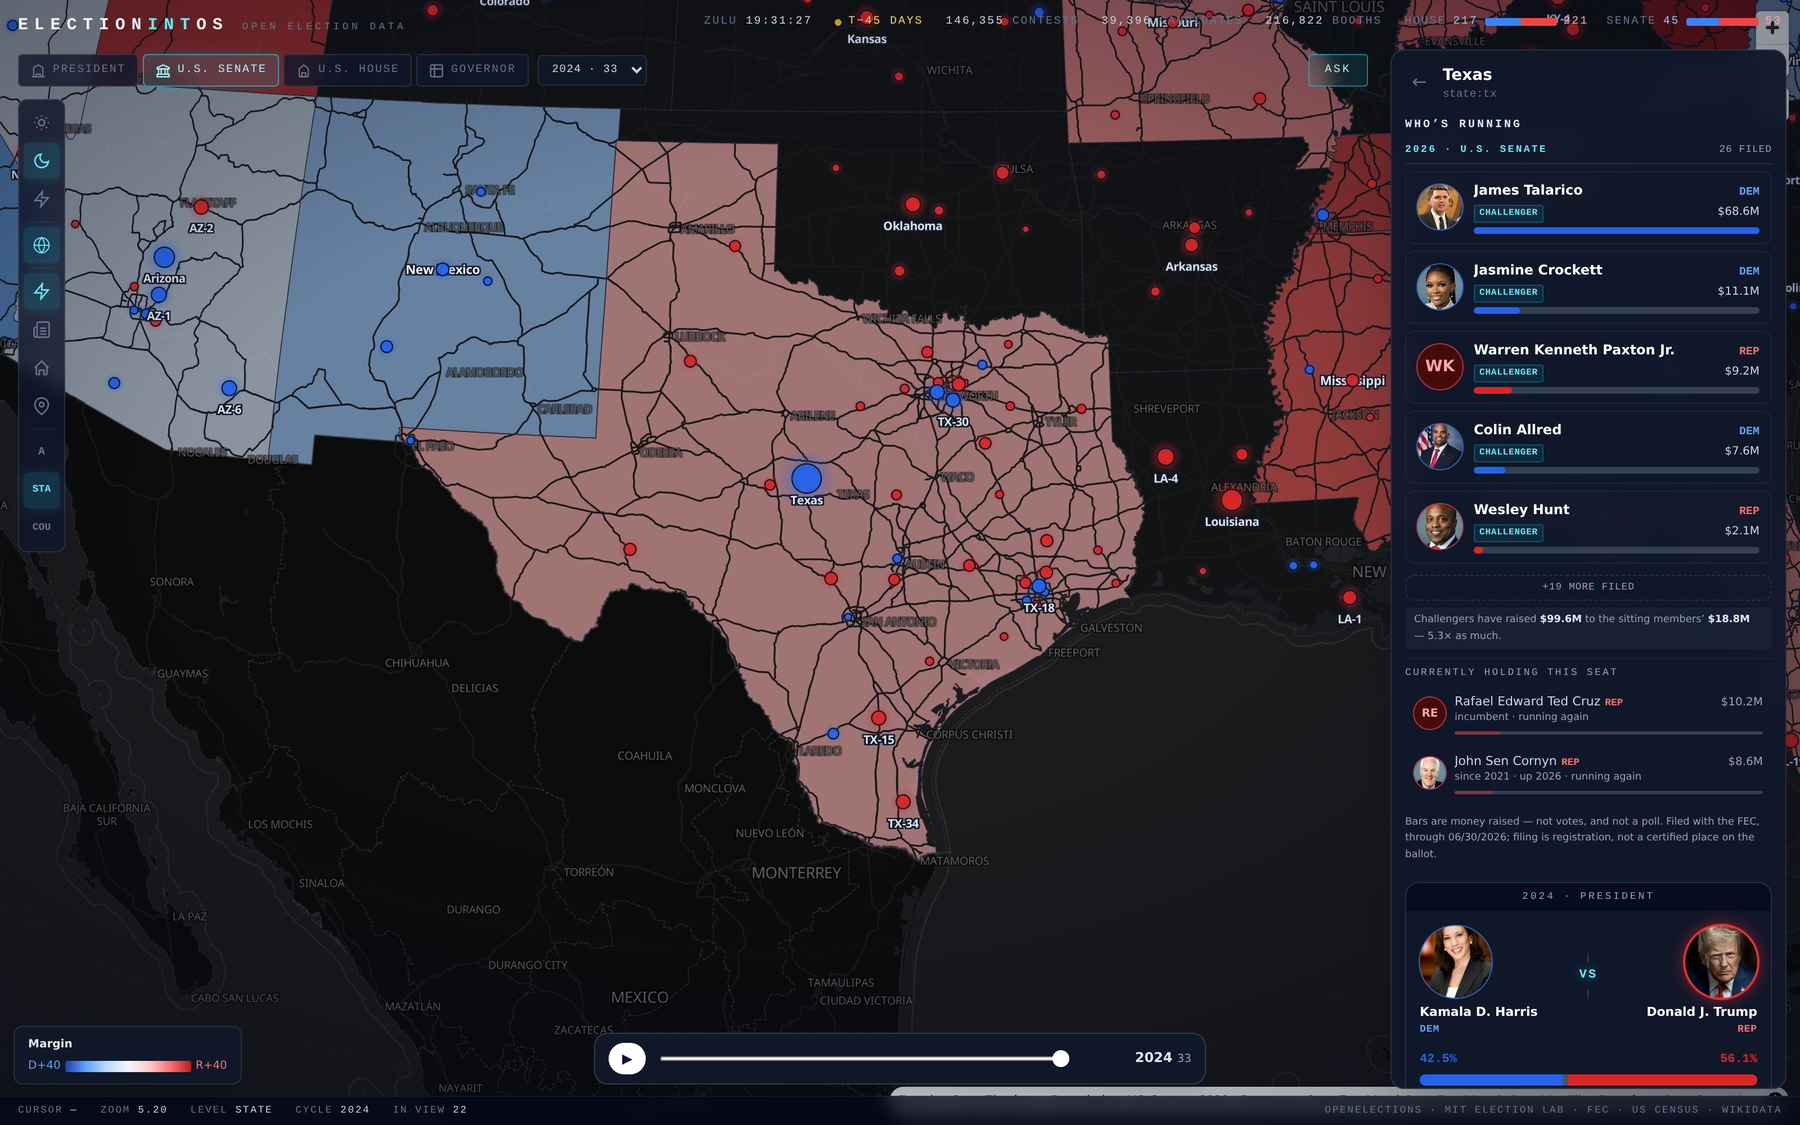
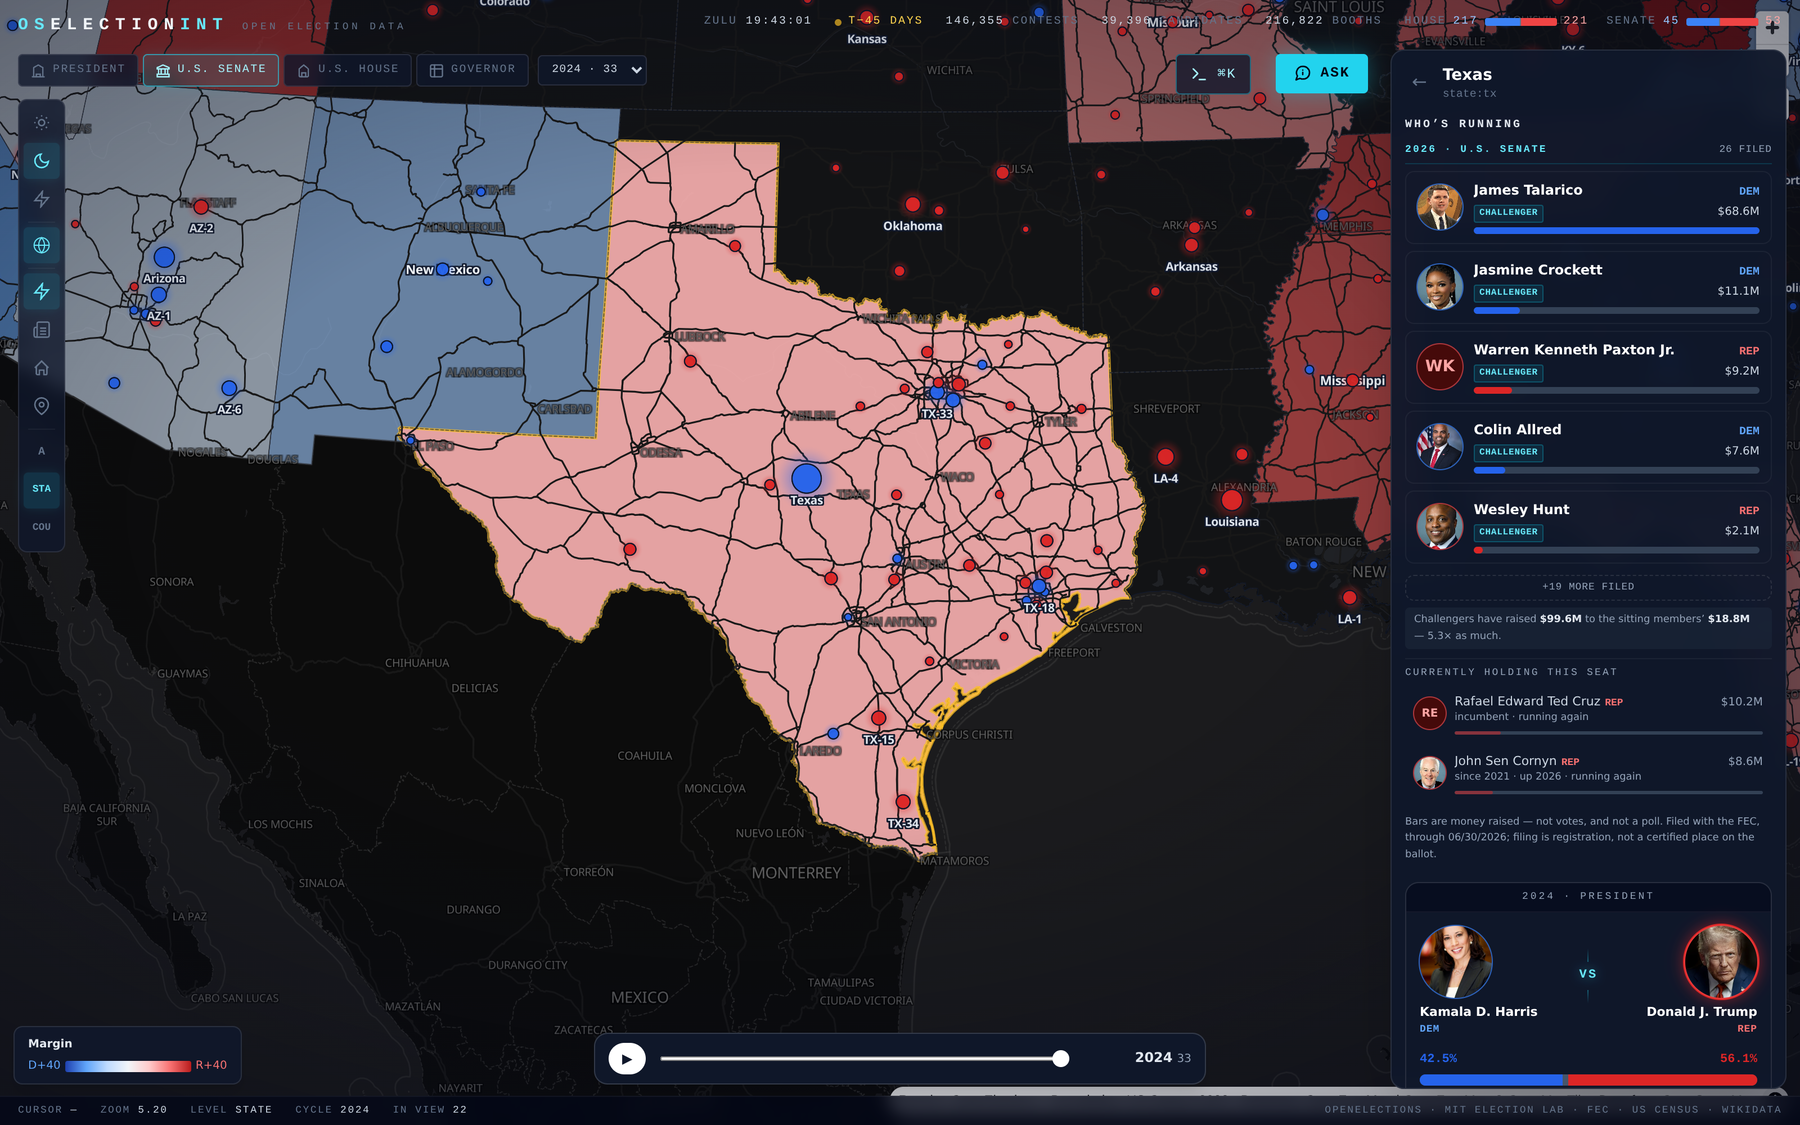
docs: add the team roster, recapture screenshots after the rename
The three screenshots still carried the old ELECTIONINTOS wordmark, which
contradicted the title on the same page. Recaptured against the live
deployment, so they now also show the command panel.

Changed region(s): [[0.2178, 0.1244, 0.6533, 0.7778], [0.6533, 0.0311, 0.7778, 0.0933], [0.0311, 0.0, 0.1244, 0.0311]]

diff --git a/README.md b/README.md
@@ -353,9 +353,15 @@ scripts/                            ETL + portrait backfill
 
 ## Team
 
+**Solo build.**
+
 | Name | Role | Contact |
 |---|---|---|
-| _[add]_ | _[add]_ | _[add]_ |
+| **Abdullah Khan Zehady** | Everything — data pipeline, backend, frontend, design | [support@perspectivity.co](mailto:support@perspectivity.co) · [OpenGovLab](https://github.com/OpenGovLab) |
+
+One person across the whole stack: the Python ingest that normalises 135 OpenElections
+repositories onto OCD division IDs, the PMTiles build, the dual-backend API, the MapLibre client,
+and the visual design.
 
 ---
 
